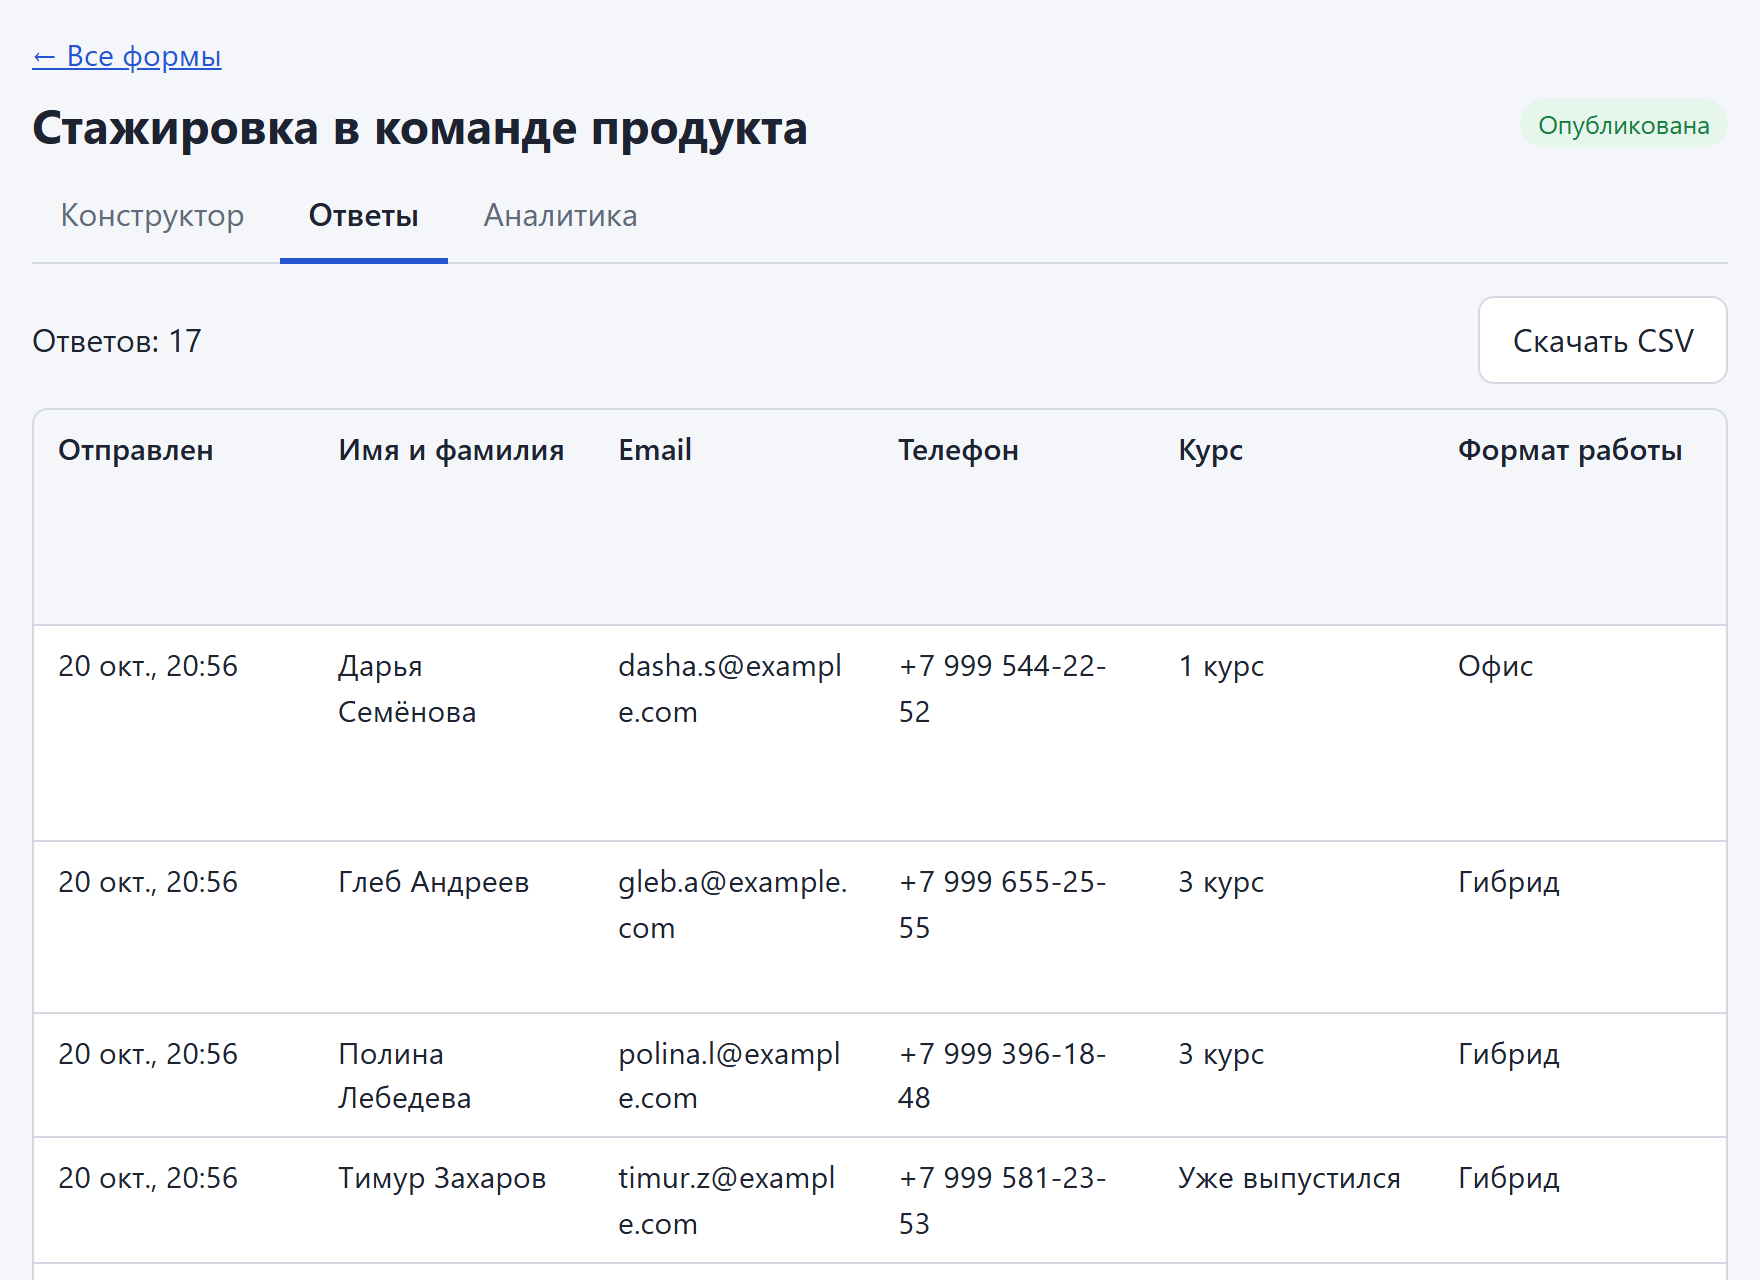
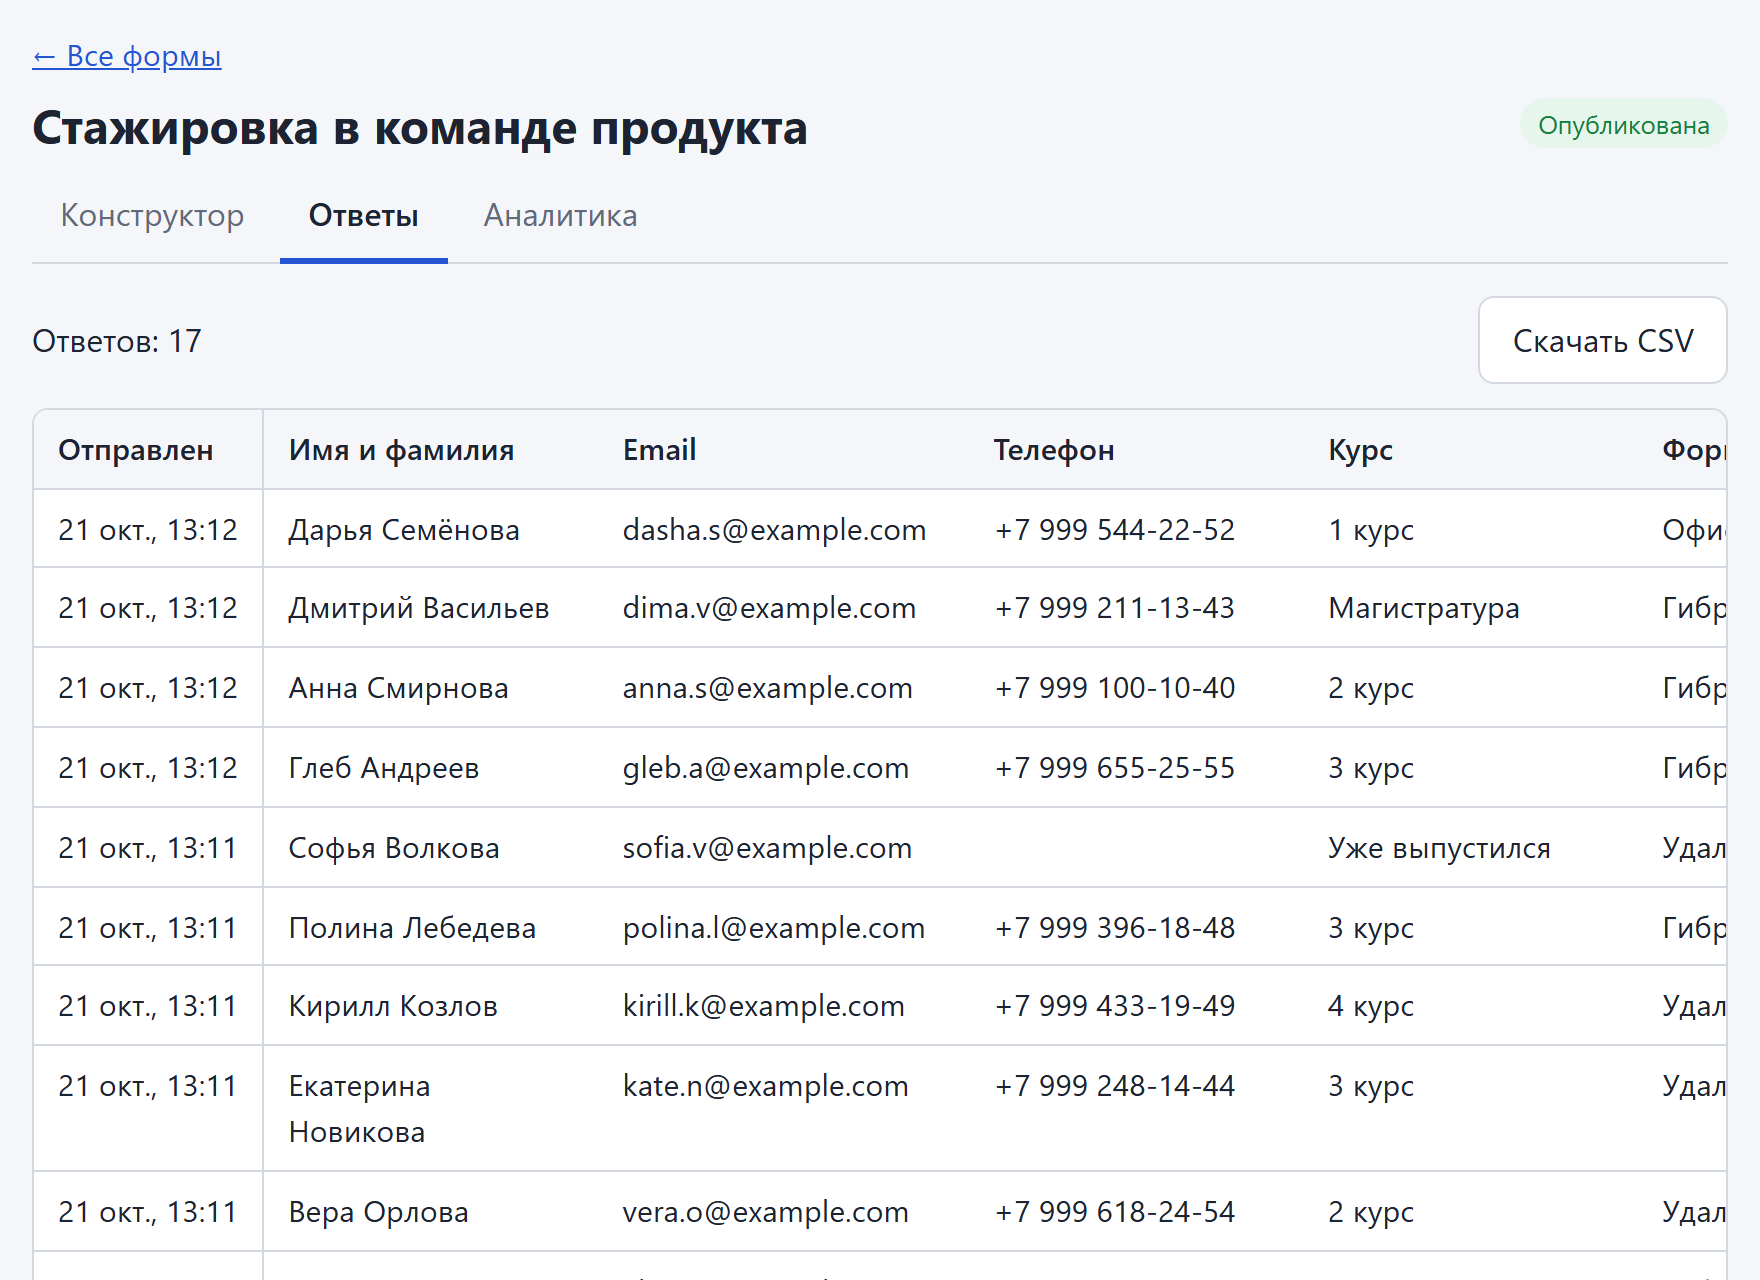
Retake README screenshots half an hour after the demo sessions

diff --git a/README.md b/README.md
@@ -8,7 +8,7 @@
 
 ## Как это выглядит
 
-Снято на демо-форме, которую сервер создает при первом старте. Данные ненастоящие. Перед съемкой через тот же API, которым пользуется страница студента, прошли 40 сессий с паузами между полями, 17 из них отправили ответ. На каком поле бросать и где ошибиться, задано заранее. Паузы на полях скрипт выбирает случайно в заданных пределах, а время на экране посчитано из реально прошедших пауз. Сессии шли за пару минут до снимка, поэтому все незавершенные помечены как активные за последние 30 минут.
+Снято на демо-форме, которую сервер создает при первом старте. Данные ненастоящие. Через тот же API, которым пользуется страница студента, прошли 40 сессий, 17 из них отправили ответ. На каком поле бросать и где ошибиться, задано заранее. Паузы на полях скрипт выбирает случайно в пределах по типу поля: выбор варианта от 1 до 4 секунд, длинный текст от 25 до 60, исправление ошибки в телефоне еще от 10 до 25. Время на экране посчитано из реально прошедших пауз. Снимок сделан через 33 минуты после последней сессии, поэтому активных за последние 30 минут нет.
 
 Аналитика. Больше всего незавершенных сессий, 7 из 17, остановились на необязательном поле «Телефон». Колонка «Ошибки» в той же строке подсказывает причину: ошибку формата там видели 9 из 28 сессий, дошедших до поля.
 
